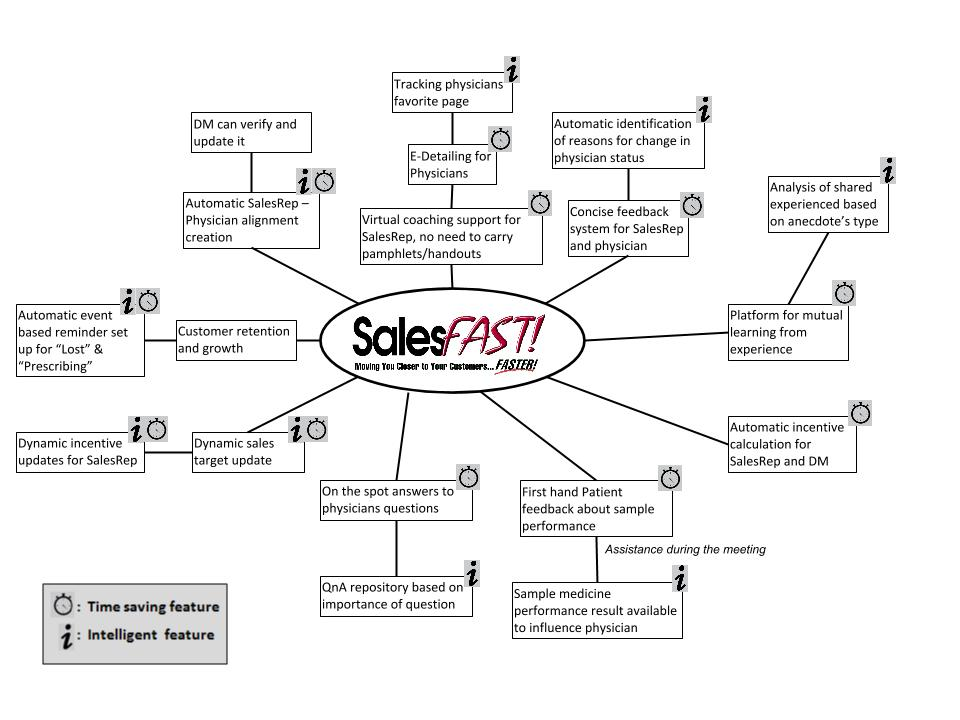
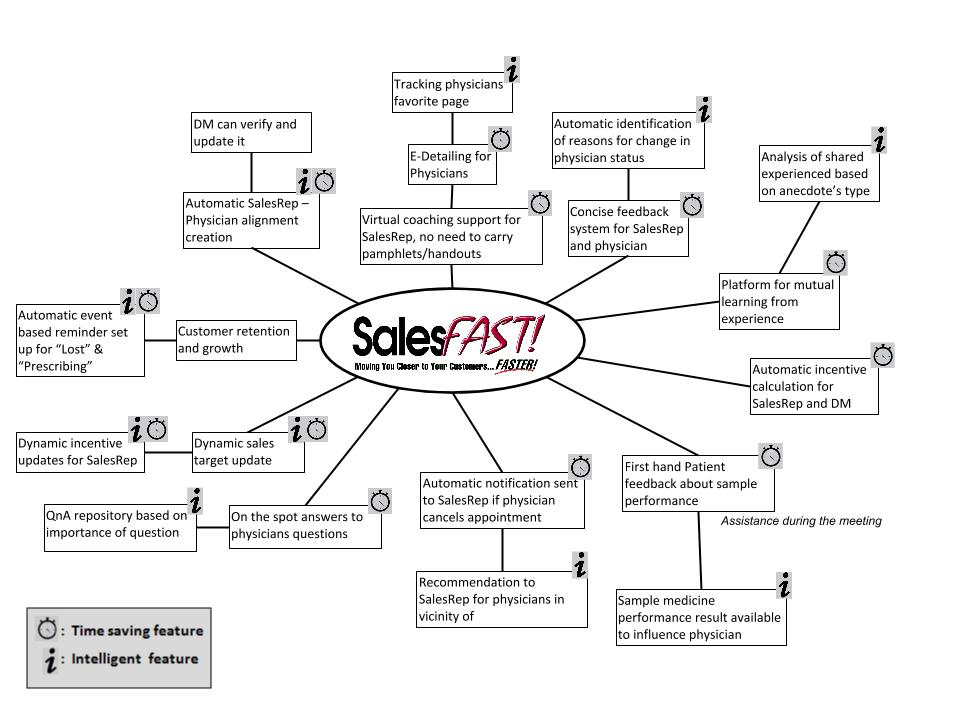
Final version of catalog

diff --git a/Catalog.md b/Catalog.md
@@ -677,7 +677,11 @@ _Situation of using the software_:
     <td style="border: solid 1px black;">Automatic target update for a SalesRep in case he/she reaches his/her target well before end of cycle</td>
     <td style="border: solid 1px black;">SalesFast will keep a track on customers converted by a SalesRep on a daily basis. If his/her performance is above a certain level, SalesFast will automatically increase the target and incentive assigned to a SalesRep.</td>
   </tr>
-
+  <tr>
+    <td style="border: solid 1px black;">8.</td>
+    <td style="border: solid 1px black;">Automatic addition of new physicians to the system under relevant category of medical field</td>
+    <td style="border: solid 1px black;">SalesFast will check for new physicians in the master database provided by third party vendor, add it to BioPharma's database based on his/her speciality and make it available for automatic alignment.</td>
+  </tr>
 
 
 </table>
@@ -750,7 +754,8 @@ _Purpose of using the software_:
 ---
 ## Chapter 3 - Descriptions of each "Merit"
 
-This section describes the benefits of using SalesFast in terms of time saving, getting first hand intelligent information (without manual work) and eventually better profit. Following figure briefly describes all the benefits that SalesFast provides. 
+SalesFast can provide assistance to all roles at BioPharma in activities related to planning done before the sales meeting, during the meeting and after the meeting. Apart from these, it comes with certain features that can help BioPharma employees in terms of time saving, getting first hand intelligent information (without manual work) and eventually better profit. Following figure briefly describes all the benefits that SalesFast has. 
+
 
 <img src="benefits-brief 2.jpg"/>
 
@@ -769,14 +774,14 @@ The material used during first class room training for SalesRep will be availabl
 #### [Function 2] :
 District Manager and National Heads will be able to update the training material on SalesFast so that SalesRep can refer to the updated material.
 
-**Priority:** Medium
+**Priority:** Low
 
 **Implemented:** NA
 
 #### [Function 3] e-Detailing: 
 If a physician agrees to prescribe a particular medicine, he/she will be given a user id & password to login to a portal on SalesFast, provided the physician is willing to use it. This portal will contain details about the product SalesRep presented in the last meeting and also upcoming products will be introduced on the same portal. This way, SalesRep doesn't have to visit the physician very frequently, saving his time, and also the physician comes in direct contact with the organisation through the portal. 
 
-**Priority:** Medium
+**Priority:** High
 
 **Implemented:** NA
 
@@ -790,16 +795,16 @@ National Head will be able to add a product to e-detailing portal, in case a new
 #### [Function 5]
 To add more intelligence to the system, e-detailing portal will track the duration of time spent by a physician on each page. This data will be compiled by SalesFast and National Head and DMs will have access to it. They can sort it based on time duration and understand which section of e-detailing is most famous among physicians. This key insight  will help them alter their policies, research plans and call plans to cater more profits.
 
-**Priority:** Medium
+**Priority:** Low
 
 **Implemented:** NA
 
 ### [Merit 2] Power to create intelligent cycle plans to drive better profit:
-District Manager and National Heads create cycle plans for Sales Representatives where each cycle could be of 2 or 3 weeks. SalesRep execute calls based on this plan. Needless to say, company's profit depends on this plan significantly. It is inevitable to design it in such a fashion that its execution generates more profit in less time. SalesFast can help notably in this direction. SalesRep and Physicians, from their respective portals, can select the possible reasons for the outcome of the meeting. For example, if physician agrees to prescribe the medicine, what are the reasons that influenced him, such as - he genuinely liked the product or price is less as compared to other similar medicines in market, less side effects, liked the presentation, impressed by company's reputation. Similar options will be given to SalesRep. 
+District Manager and National Heads create cycle plans for Sales Representatives. SalesRep execute calls based on this plan. Needless to say, company's profit depends on this plan significantly. It is inevitable to design it in such a fashion that its execution generates more profit in less time. SalesFast can help notably in this direction. SalesRep and Physicians, from their respective portals, can select the possible reasons for the outcome of the meeting. For example, if physician agrees to prescribe the medicine, what are the reasons that influenced him, such as - he genuinely liked the product or price is less as compared to other similar medicines in market, less side effects, liked the presentation, impressed by company's reputation. Similar options will be given to SalesRep. 
 SalesRep and Physicians will keep on making such submissions through out the cycle. At the end of every cycle, SalesFast will automatically analyse the data received so far and generate output that would help National Head and District Managers in making **informed decisions** to modulate the cycle plan if needed. The output will contain details like - For all the physicians whose status changed from "Prospecting" to "Lost", what was the primary reason for this negative change. Similarly for other combinations of status changes. This is a vital piece of information that would significantly help to increase the conversion rate of sales calls and eventually lead to better profit.
 
 #### [Function 1] 
-When a physician agrees to prescribe a certain product, he/she is given a set of user id and password to login to the SalesFast. Upon first login, he/she will have to select one or more than one reasons as to what influenced him/her to agree to prescribe the product. It will be a pre-populated list of plausible reasons. This submission will be accessible by National Head and District managers. They can run some analysis on this to understand various aspects of successful sales calls from physician's perspective, for example, what factor about the sales call influences the physicians most, what are their expectations from the pharmaceutical industry, which area is a good target area. Then they can update the cycle plan based on this understanding. 
+When a physician agrees to prescribe a certain product, he/she is given a set of user id and password to login to the SalesFast. Upon first login, he/she will have to select one or more than one reasons as to what influenced him/her to agree to prescribe the product. It will be a pre-populated list of plausible reasons. 
 
 **Priority:** High
 
@@ -815,7 +820,7 @@ After a sales call, SalesRep, from his own portal, can select reasons for the ou
 #### [Function 3] 
 All the information submitted in Function 1 & 2 will be analysed by SalesFast at the end of every cycle. It will automatically generate a report for National Head's and DM's perusal that could contain details about primary reasons for physicians being "Lost" or becoming "Prescribing". This can serve as a very **good building block** for a robust and profitable cycle plan.  
 
-**Priority:** High
+**Priority:** Medium
 
 **Implemented:** NA
 
@@ -832,20 +837,51 @@ To solve this problem, SalesFast creates these alignments automatically based on
 Once alignment is created, DM can verify the alignments and make updates manually.
 
 #### [Function 1]:
-Take physician's data base as input and list of all active SalesReps. Create alignment based on above mentioned factors and update these alignments in SalesReps's account on SalesFast and similarly on District Manager's account.
+Take physician's data base as input and list of all active SalesReps. Create alignment based on above mentioned factors and update these alignments in SalesReps's account on SalesFast and similarly on District Manager's account. 
 
 **Priority:** High
 
 **Implemented:** NA
 
 #### [Function 2]:
+Alignments will be arranged in the order of 'Importance' of a physician. If a physician is renowned or there are high chances that he/she will become a 'Prescribing_X_Med_Y' physician, his/her alignment to the SalesRep is bound to come near the top of the alignment list.  
+
+**Priority:** High
+
+**Implemented:** NA
+
+#### [Function 3]:
 DM will be able to update these alignments, if needed.  
 
 **Priority:** Low
 
 **Implemented:** NA
 
-### [Merit 4] Error and Hassle free incentive calculation:
+### [Merit 4] Appointment tracker & physician in vicinity:
+Everyday SalesRep calls some physicians from his/her alignment list and fixes certain apointments. SalesFast provides a way for DM to keep track of SalesRep's daily activities and automatic notification to SalesRep in case a physician cancels a meeting.
+
+#### [Function 1]: Appointment Tracking
+If a physician agrees to meet on a particular day, SalesRep can enter this appointment's detail in SalesFast with approximate time of the meeting. DM will be able to see this information and get realtime update on SalesRep's activities.  
+
+**Priority:** High
+
+**Implemented:** NA
+
+#### [Function 2]: Cancellation notifications:
+As soon as SalesRep confirms an appointment with a physician, a confirmation email will be sent to the physician with a link showing details of the appointment. This will be a information page on SalesFast itself. Physician can 'Cancel' the appointment in case something urgent comes up. Automatic notification will be sent to the SalesRep and he can fix another appointment from his pool of aligned physicians.  
+
+**Priority:** High
+
+**Implemented:** NA
+
+#### [Function 3]: Physicians in vicinity:
+A SalesRep visits physicians based on appointments that he/she has fixed in the morning. After confirming all appointments, SalesFast will identify other physicians in the vicinity (same ZIP code) of these confirmed appointments so that SalesRep can try to visit them and save a significant portion of time, which he might have spent in visiting the same area again.  
+
+**Priority:** High
+
+**Implemented:** NA
+
+### [Merit 5] Error and Hassle free incentive calculation:
 Incentive calculation is an important sales activity and should be done with precision. To decouple it from the factor of human error, SalesFast provides a hassle free, automatic incentive calculator that, with minimum manual intervention, calculates incentives for District Managers and Sales Representatives. 
 Incentive calculated is directly proportional to the amount of work done by SalesRep or DM, which quantified by the percentage of different targets achieved by them. One simple example is, percentage of physicians changing from "Prospecting" to "Prescribing" in a territory of SalesRep. 
 
@@ -859,29 +895,29 @@ At the end of each quarter, Incentive Calculator fetches the latest data from hi
 #### [Function 2]:
 In case of District Managers, apart from fetching the percentage target achieved (in terms of calls), Incentive Calculator also checks the percentage change in Over The Counter sales of all the medicines in that district. It then calculates the incentive based on these parameters. 
 
-**Priority:** Medium
+**Priority:** Low
 
 **Implemented:** NA
 
-### [Merit 5] Firsthand patient feedback system and sample distribution management:
+### [Merit 6] Firsthand patient feedback system and sample distribution management:
 Primary purpose of sample medicines is to  verify the effectiveness of the medicine. SalesRep issue a fixed number of sample medicines to physicians. They then give it to visiting patients. 
 Two important things that need to be taken care of are - District Manager and National Head should know how many samples were distributed to which physician. Secondly, BioPharma needs feedback from patients to know if the medicine actually worked or no. SalesFast helps in solving these.
 
 #### [Function 1]:
 At the beginning of each quarter, District Manager assigns a fixed number of sample medicines to all SalesReps. If a physician's status changes to "Prescribing" or "Prospecting", SalesRep can offer samples medicines to him/her and enter the number of samples given on SalesFast under his account. These updates will also be visible to District Manager and National Head.
 
-**Priority:** Medium
+**Priority:** Low
 
 **Implemented:** NA
 
 #### [Function 2]:
 Each stripe/box of sample medicine will have a QR code pointing to an open page on SalesFast. Patients using that medicine can go to the page and provide their feedback in the form of answers to some very simple questions. These submissions will be visible to District Manager and National Head. 
 
-**Priority:** Medium
+**Priority:** High
 
 **Implemented:** NA
 
-### [Merit 6]: On the spot assistance:
+### [Merit 7]: On the spot assistance SalesRep:
 SalesFast will have features to assist SalesReps during the meeting as well. Following are the two scenarios where it can help:
 1. Sometimes SalesReps are not able to answer some of physicians technical (or other) questions on the spot. To solve this problem, SalesFast provides a universal portal where any user from BioPharma company can post a question under different categories like 'Extremely Urgent' and 'Urgent'. Any user who is on line and knows the answer can submit the response, hence catering to SalesRep's need then and there. This question will then go to a repository under SalesFast where all such questions are compiled for future reference by other SalesReps.
 2. To convince a physician, SalesRep can show results of Sample feedback submission from other regions. It is a good way to influence a physician by showing the performance of medicine.
@@ -889,7 +925,7 @@ SalesFast will have features to assist SalesReps during the meeting as well. Fol
 #### [Function 1]: Universal QnA portal:
 All users, upon login, will have a 'Live Meeting Questions' portal, where they can broadcast questions to the entire organization. They can grade the question either "Extremely Urgent" or "Urgent" based on type of question or how quickly the physician wants the answer. SalesRep can continue talking about other stuff and meanwhile someone on line and knowing the answer might respond to it.
 
-**Priority:** Medium
+**Priority:** Low
 
 **Implemented:** NA
 
@@ -900,21 +936,21 @@ SalesFast will compile all these question under QnA repository. Each question ha
 
 **Implemented:** NA
 
-#### [Function 3]: Showing sample feedback results
-After patients submit feedback about medicine's performance, SalesFast will aggregate these submissions and generate a report showing performance of the medicine.       
+#### [Function 3]: Showing sample feedback results:
+After patients submit feedback about medicine's performance, SalesFast will aggregate these submissions and generate a report showing performance of the medicine.
 
 **Priority:** High
 
 **Implemented:** NA
 
-### [Merit 7] Customer Retention and Growth:
+### [Merit 8] Customer Retention and Growth:
 Retaining existing customers is extremely important from a monetary point of view. When a physician becomes a prescribing customer for O_Med_1, i.e., his status becomes "Prescribing_O_Med_1", BioPharma needs to make sure that this particular physician is approached timely for new products. Also physicians with status "Lost" need to be approached with new medicines in future so that they can be made new customers for BioPharma.
 
 
 #### [Function 1]: Customer Retention - 
 When a SalesRep changes the status of a physician from "Prospecting" to "Prescribing_X_Med_Y", physician is given a set of credentials for e-detailing. Any new medicine released by BioPharma is showcased on this detailing portal. Simultaneously, SalesFast sets up an event dependent reminder for SalesRep to contact that physician. Event here refers to releasing of a new medicine. 
 
-**Priority:** High
+**Priority:** Medium
 
 **Implemented:** NA
 
@@ -925,7 +961,7 @@ When a physician's status is changed to "Lost" by a SalesRep, SalesFast sets up 
 
 **Implemented:** NA
 
-### [Merit 8]: Real-time tracking of performance and target update:
+### [Merit 9]: Real-time tracking of performance and target update:
 SalesFast will track the performance of Sales Representatives on a daily basis, based on the input they provide for each call. Based on this performance metric, their target and incentive values will be updated and notified to respective District Manager.
 
 #### [Function 1]: Dynamically updating sales target: 
@@ -942,36 +978,6 @@ Based on this performance calculation, it will update the targets (increase or d
 
 #### [Function 2]: Dynamically updating incentive amount:
 Incentive is the primary source of motivation for many SalesReps. It is set to a fixed value by District Manager at the beginning of the quarter. SalesFast will calculate performance of each SalesRep (as described in Function 1 above), and update the incentive (increase or decrease) based on this performance.      
-
-**Priority:** High
-
-**Implemented:** NA
-
-### [Merit 9] Less time consuming and smoother correspondence among SalesRep and Managers:
-In absence of an integrated tool, sales activities require constant flow of update emails between SalesRep and managers. SalesReps and managers spend a lot of time on such activities. For example:
-
-- SalesRep need to update managers about outcome of a meeting
-- Manager having to communicate to the Rep any change in his/her alignment with a particular physician
-- Any update in the training material or sales policies need to be communicated to SalesRep explicitly
-
-SalesFast provides an **integrated platform** to perform these updates and the respective communication is taken care of by the software application itself. 
-
-#### [Function 1]:
-After a sales call, SalesRep, from his own portal, can submit update about the call based on a fixed set of parameters, for example which physician was visited and which medicine was discussed, what is the status of this physician - _Specified_,_Prospecting_,_Lost_. This submission will be visible to the respective District Manager.
-
-**Priority:** High
-
-**Implemented:** NA
-
-#### [Function 2]:
-District Manager and National Heads can change the alignment of a SalesRep from one physician to another. This **information immediately gets percolated down** to other users who are using the system, including SalesReps. Thus there is no need to explicitly inform SalesRep about this change.
-
-**Priority:** Medium
-
-**Implemented:** NA
- 
-#### [Function 3]:
-SalesRep have a fixed set of material using which they are trained. This material will be available on SalesFast and can be updated by National Head or District Manager. These updates need not be explicitly communicated to the SalesRep as they will have 'read-only' access to the same (updated) material.
 
 **Priority:** Medium
 
@@ -998,9 +1004,33 @@ Before filling out anecdotes, each SalesRep will have to select the type of anec
 #### [Function 3]:
 All the submissions, grouped as per categories, will be visible to all representatives. They can read it anytime they want and gain insights about experiences of other SalesReps and learn.
 
-**Priority:** Medium
+**Priority:** Low
 
 **Implemented:** NA
+
+### [Merit 11] Less time consuming and smoother correspondence among SalesRep and Managers:
+In absence of an integrated tool, sales activities require constant flow of update emails between SalesRep and managers. SalesReps and managers spend a lot of time on such activities. For example:
+
+- SalesRep need to update managers about outcome of a meeting
+- Manager having to communicate to the Rep any change in his/her alignment with a particular physician
+- Any update in the training material or sales policies need to be communicated to SalesRep explicitly
+
+SalesFast provides an **integrated platform** to perform these updates and the respective communication is taken care of by the software application itself. 
+
+#### [Function 1]:
+After a sales call, SalesRep, from his own portal, can submit update about the call based on a fixed set of parameters, for example which physician was visited and which medicine was discussed, what is the status of this physician - _Specified_,_Prospecting_,_Lost_. This submission will be visible to the respective District Manager.
+
+**Priority:** Low
+
+**Implemented:** NA
+
+#### [Function 2]:
+SalesRep have a fixed set of material using which they are trained. This material will be available on SalesFast and can be updated by National Head or District Manager. These updates need not be explicitly communicated to the SalesRep as they will have 'read-only' access to the same (updated) material.
+
+**Priority:** Low
+
+**Implemented:** NA
+
 
 
 
